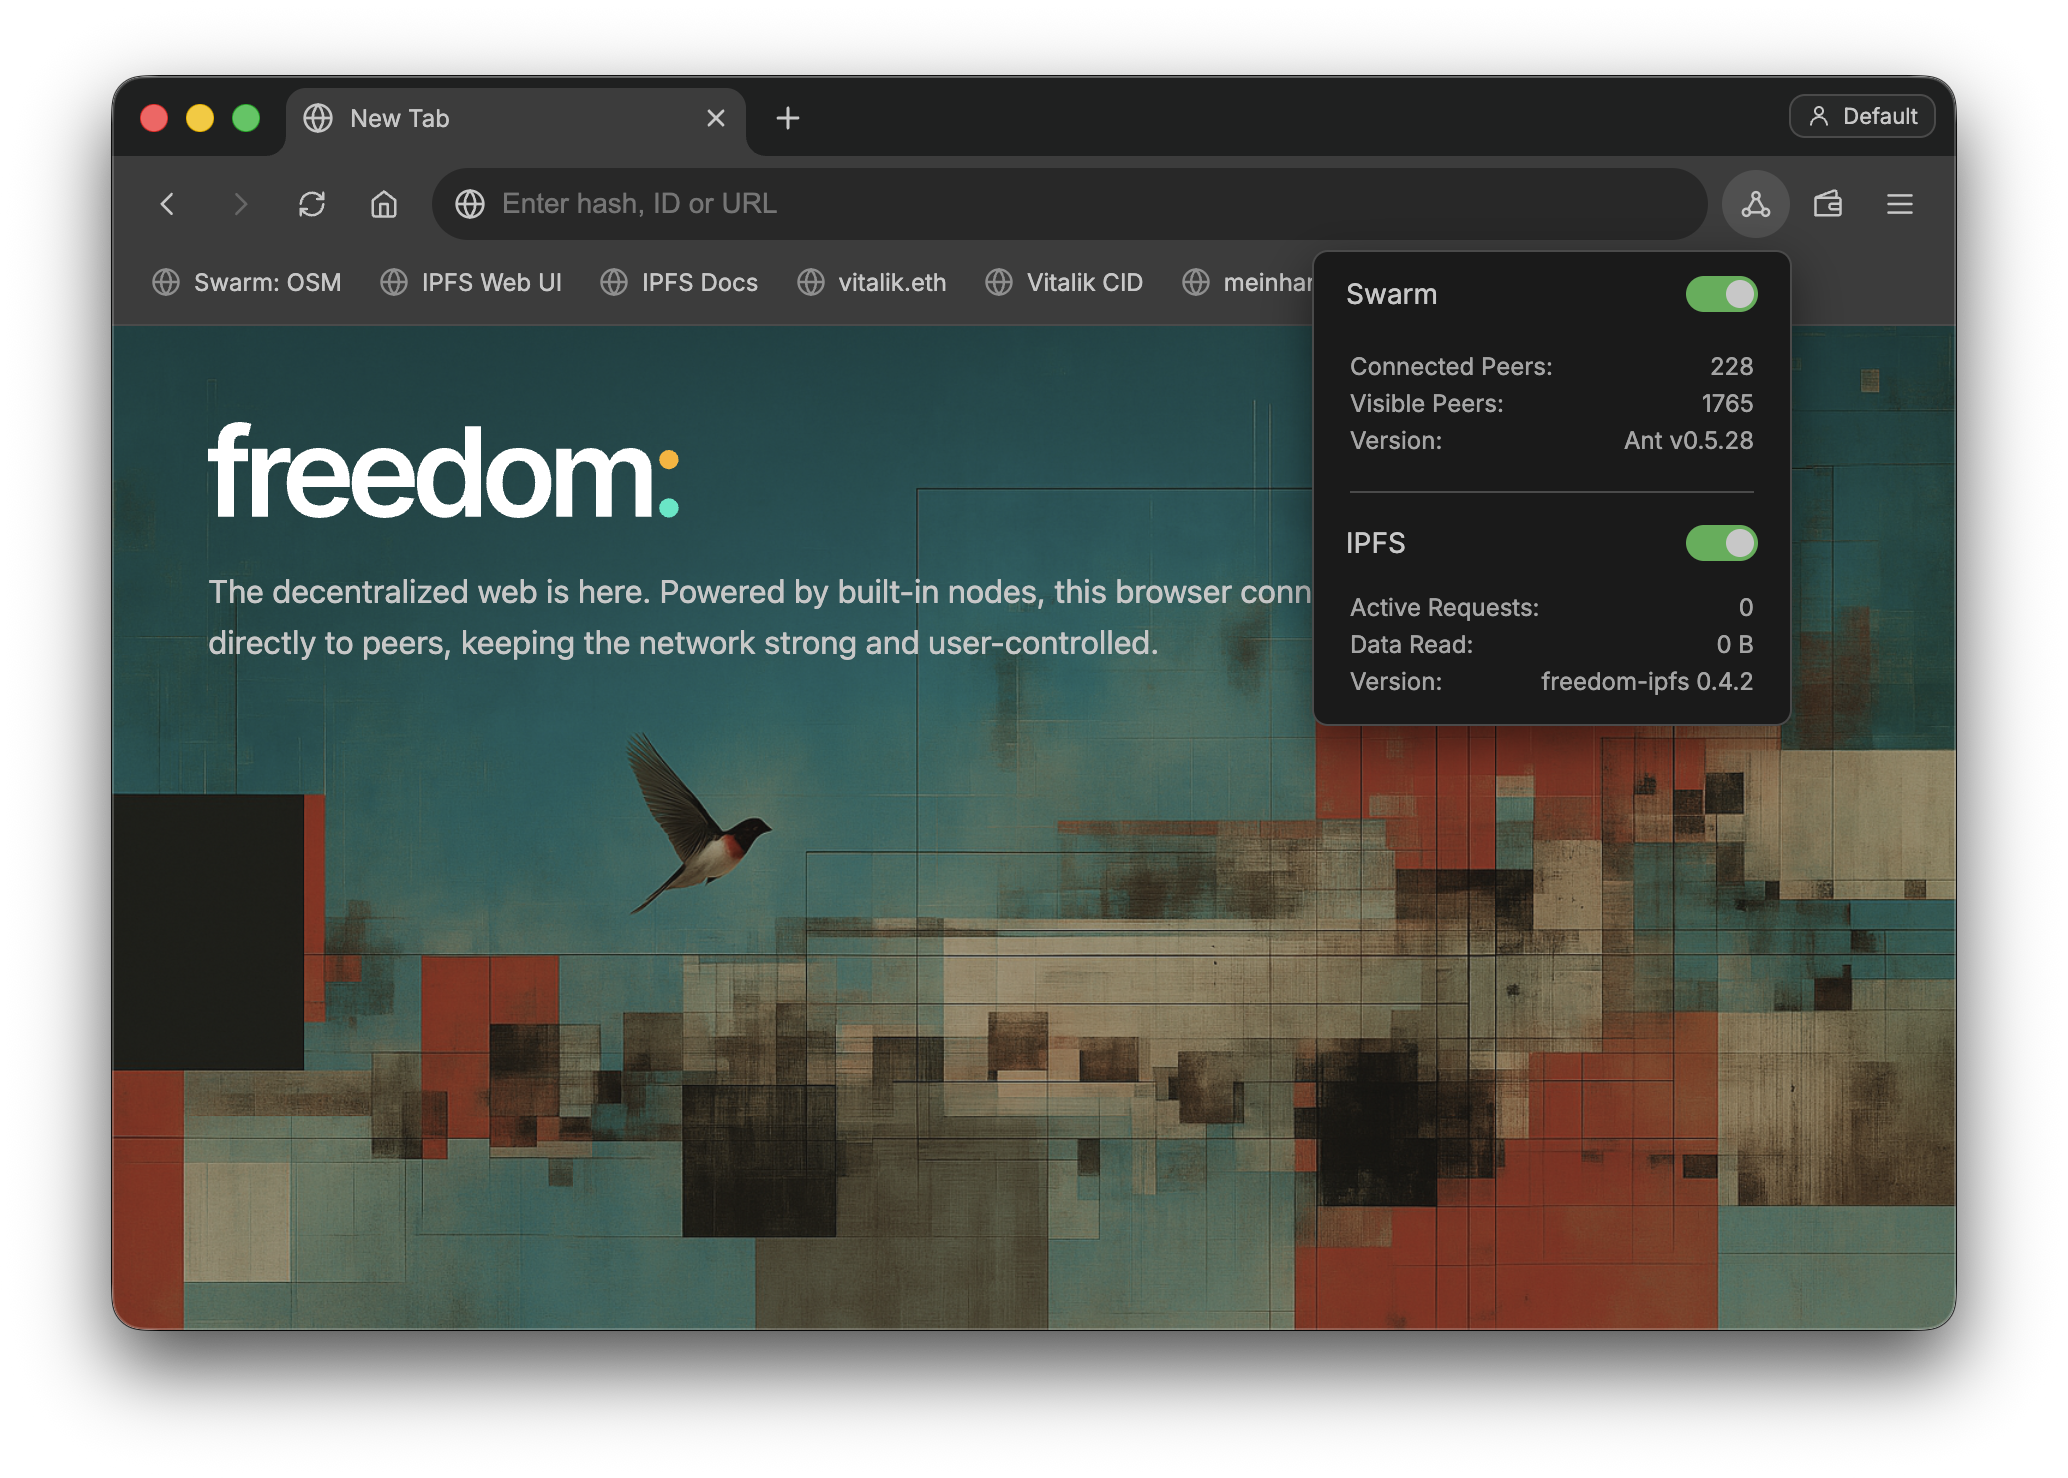
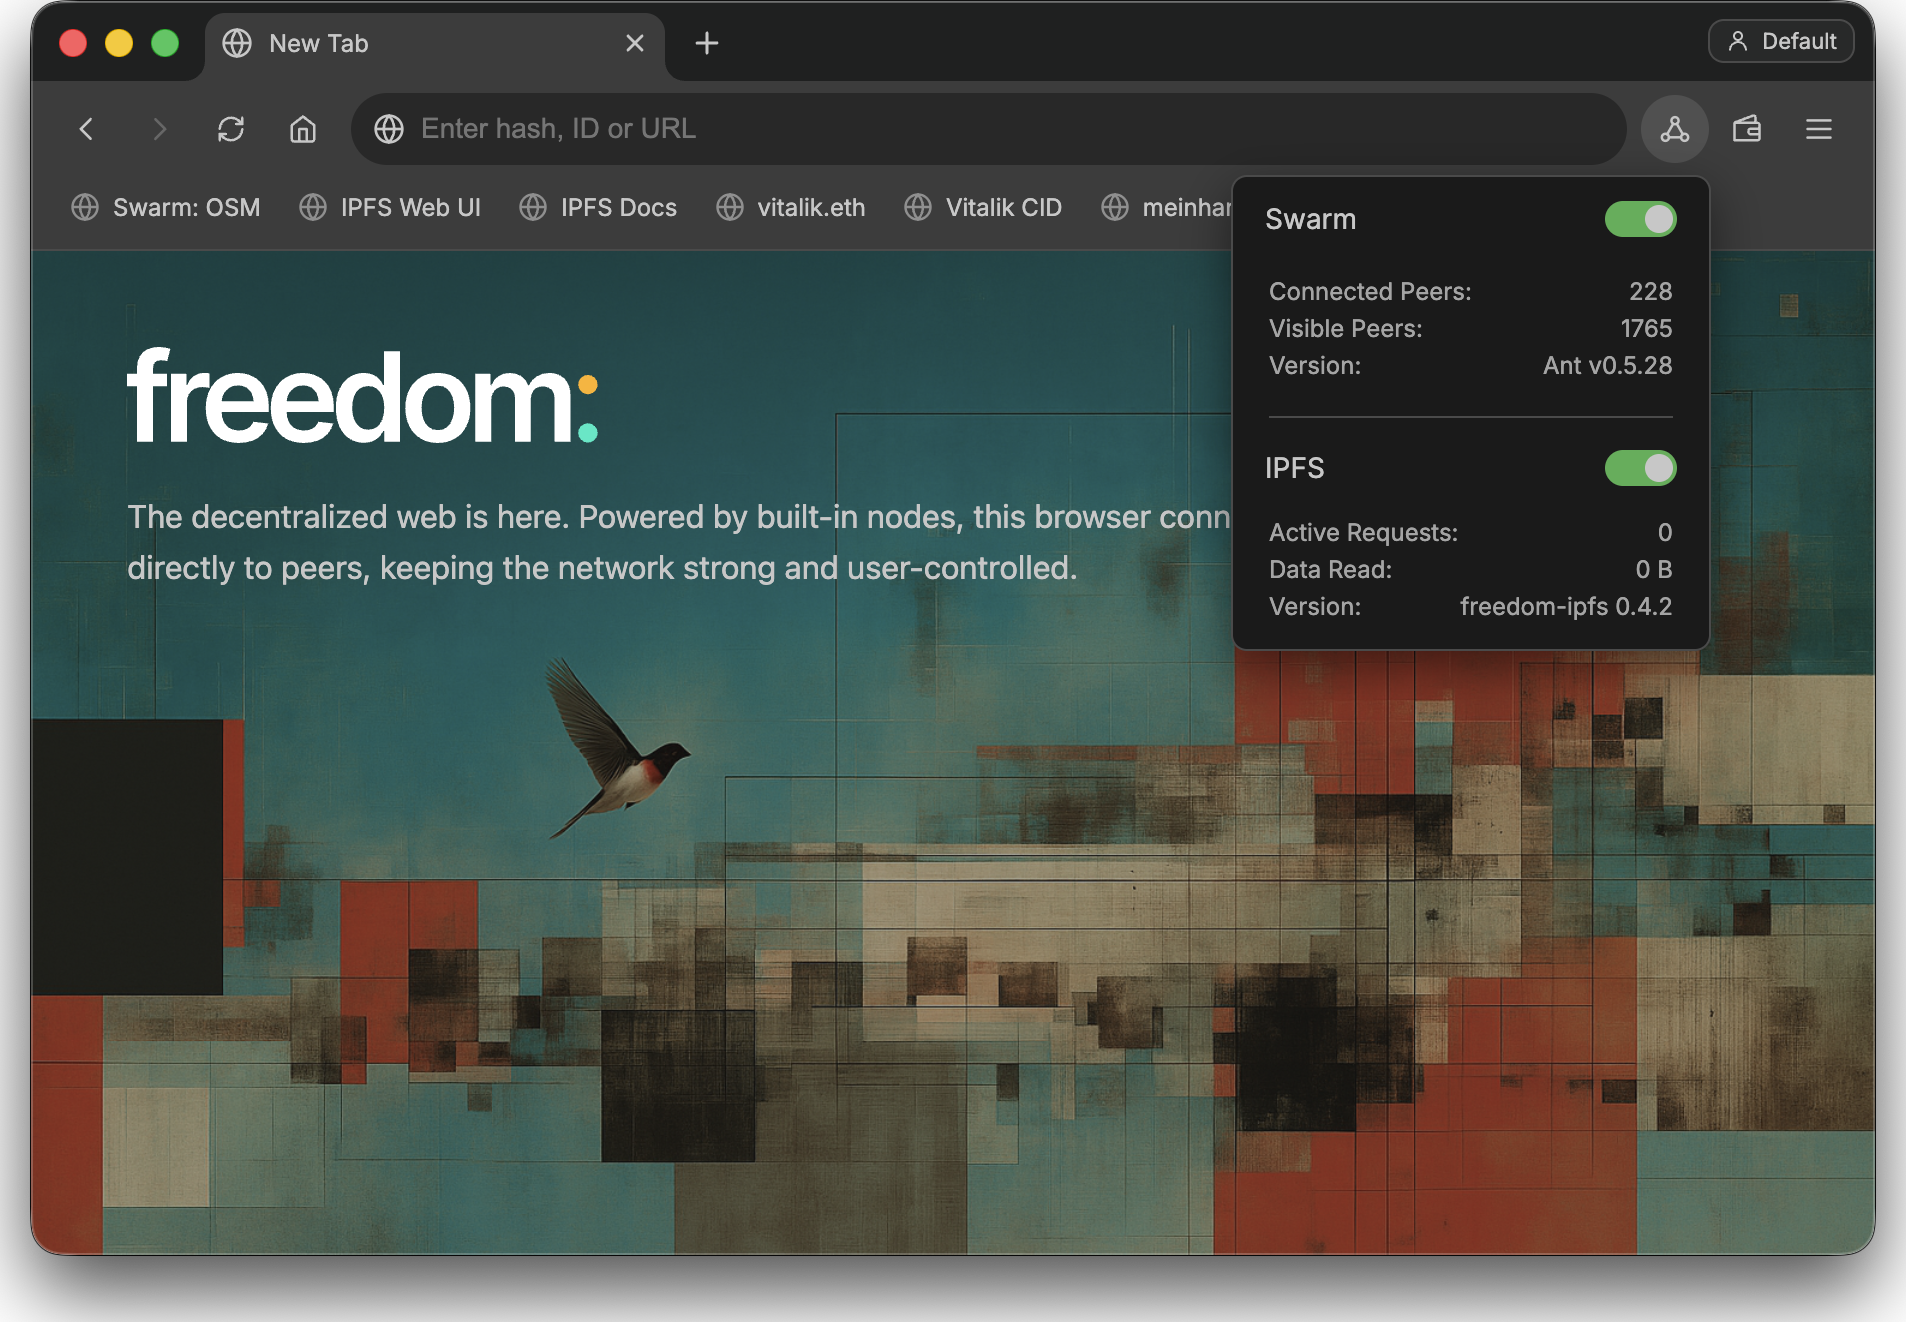
Add nodes-connected & navigator.freedom preview slides; drop version pins
- New "Swarm & IPFS connected" slide with trimmed screenshot
- New "what's next" navigator.freedom sneak-preview slide
- Move title/intro to slide 2 (after the logo cover)
- Update postage (xBZZ/xDAI), mini-app (already-cloned path), and wrap-up
- Remove all 0.7.4 version references across slides, README, and examples

diff --git a/slides/index.html b/slides/index.html
@@ -166,6 +166,15 @@
     <p style="margin-top:3vh;font-size:clamp(1.1rem,2.6vw,1.7rem);color:#c9cfc3">Writing the Decentralized Web</p>
   </section>
 
+  <!-- 1 title -->
+  <section class="slide">
+    <p class="eyebrow">DappCon · Infrastructure Layer</p>
+    <h2>Writing the dweb<span class="o">.</span><br>Not just reading it.</h2>
+    <p>Using wallet and storage APIs in Freedom Browser — publishing, signing, and resolving content
+    on peer-to-peer storage networks.</p>
+    <p style="margin-top:2vh;font-family:var(--mono);font-size:clamp(.8rem,1.6vw,1rem);color:#6e7568">Meinhard Benn · meinhard.eth</p>
+  </section>
+
   <!-- 1 pre-session -->
   <section class="slide">
     <p class="eyebrow">Before we start</p>
@@ -183,20 +192,11 @@
   </section>
 
   <!-- 2 nodes connected -->
-  <section class="slide" style="align-items:center;text-align:center">
+  <section class="slide">
     <p class="eyebrow">What ready looks like</p>
     <h2 style="margin-bottom:2vh">Swarm &amp; IPFS <span class="g">connected</span></h2>
     <img src="./images/freedom-screenshot.png" alt="Freedom Browser new tab with Swarm and IPFS nodes connected"
-      style="flex:0 0 auto;width:clamp(420px,62vw,880px);max-height:62vh;height:auto;object-fit:contain">
-  </section>
-
-  <!-- 1 title -->
-  <section class="slide">
-    <p class="eyebrow">DappCon · Infrastructure Layer</p>
-    <h2>Writing the dweb<span class="o">.</span><br>Not just reading it.</h2>
-    <p>Using wallet and storage APIs in Freedom Browser — publishing, signing, and resolving content
-    on peer-to-peer storage networks.</p>
-    <p style="margin-top:2vh;font-family:var(--mono);font-size:clamp(.8rem,1.6vw,1rem);color:#6e7568">Meinhard Benn · meinhard.eth</p>
+      style="flex:0 0 auto;width:clamp(420px,62vw,880px);max-height:60vh;height:auto;object-fit:contain;border-radius:10px;box-shadow:0 24px 60px rgba(0,0,0,.45)">
   </section>
 
   <!-- 2 objective -->
@@ -251,7 +251,7 @@
     <ul>
       <li>Swarm publishing goes through your own Swarm node — set up at <span style="font-family:var(--mono)">freedom://publish</span></li>
       <li>A postage batch (paid in xBZZ) stamps what you upload — buy / extend it in the Stamp manager</li>
-      <li>Today: nodes are pre-funded with a stamp — or I publish live and share the hash. <b>Reading and signing need none of this.</b></li>
+      <li>Today: I send you xBZZ (and xDAI for gas if needed) to buy your own stamp — or I publish live and share the hash. <b>Reading and signing need none of this.</b></li>
       <li>In production: your app or your user funds the batch</li>
     </ul>
   </section>
@@ -291,7 +291,7 @@ console.log(bzzUrl);  <span class="cm">// → your first bzz:// reference</span>
       <span class="hl">Swarm</span>&nbsp;&nbsp;postage · chunks · feeds &nbsp;<span class="ok">— write today</span><br>
       <span class="hl">IPFS</span>&nbsp;&nbsp;&nbsp;CIDs · pinning · broad ecosystem &nbsp;— read
     </div>
-    <p style="margin-top:2vh">In 0.7.4 the publish API is Swarm-only; IPFS is the read side. Same browser, both networks.</p>
+    <p style="margin-top:2vh">Today the publish API is Swarm-only; IPFS is the read side. Same browser, both networks.</p>
   </section>
 
   <!-- 9 sign -->
@@ -325,8 +325,8 @@ console.log(bzzUrl);  <span class="cm">// → your first bzz:// reference</span>
   <!-- 11 mini app -->
   <section class="slide">
     <p class="eyebrow">Mini app</p>
-    <h2>Clone. Run. <span class="o">Modify.</span></h2>
-    <pre><code>git clone &lt;repo&gt;   <span class="cm">// complete &amp; working, no build step</span></code></pre>
+    <h2>Open. Run. <span class="o">Modify.</span></h2>
+    <pre><code>examples/mini-app/index.html   <span class="cm">// already cloned — complete &amp; working, no build step</span></code></pre>
     <ul>
       <li>Publish a post: <span style="font-family:var(--mono)">window.ethereum</span> → <span style="font-family:var(--mono)">window.swarm.publishData</span> → <span style="font-family:var(--mono)">personal_sign</span></li>
       <li>Approve the per-origin prompts the first time</li>
@@ -349,12 +349,31 @@ console.log(bzzUrl);  <span class="cm">// → your first bzz:// reference</span>
     write to peer-to-peer infrastructure.</p>
   </section>
 
+  <!-- 12b sneak preview -->
+  <section class="slide">
+    <p class="eyebrow">Sneak preview · what's next</p>
+    <h2>Next: one namespace — <span class="o">navigator.freedom</span></h2>
+    <div class="big-mono" style="margin-top:1vh">
+      navigator.freedom = {<br>
+      &nbsp;&nbsp;storage,&nbsp;&nbsp;<span class="cm">// publish · files · chunks · upload status</span>&nbsp;<span class="ok">✓ today</span><br>
+      &nbsp;&nbsp;feeds,&nbsp;&nbsp;&nbsp;&nbsp;<span class="cm">// create · update · read · single-owner chunks</span>&nbsp;<span class="ok">✓ today</span><br>
+      &nbsp;&nbsp;identity,&nbsp;<span class="cm">// publisher keys · getSigningIdentity · sign</span>&nbsp;<span class="ok">✓ today</span><br>
+      &nbsp;&nbsp;names,&nbsp;&nbsp;&nbsp;&nbsp;<span class="cm">// resolve + set ENS contenthash</span>&nbsp;<span class="hl">soon</span><br>
+      &nbsp;&nbsp;ipfs,&nbsp;&nbsp;&nbsp;&nbsp;&nbsp;<span class="cm">// native node — write, not just read</span>&nbsp;<span class="hl">soon</span><br>
+      &nbsp;&nbsp;pay,&nbsp;&nbsp;&nbsp;&nbsp;&nbsp;&nbsp;<span class="cm">// native x402, pay-as-you-browse</span>&nbsp;<span class="hl">soon</span><br>
+      }
+    </div>
+    <p style="margin-top:2vh">Today's <span style="font-family:var(--mono)">window.ethereum</span> + <span style="font-family:var(--mono)">window.swarm</span> fold into a single
+    <span style="font-family:var(--mono)">navigator.freedom</span> surface — same mental model, more verbs.</p>
+  </section>
+
   <!-- 13 wrap -->
   <section class="slide">
     <p class="eyebrow">Wrap-up</p>
     <h2>From <span class="o">linking to</span> storage,<br>to <span class="g">writing to</span> it</h2>
     <ul>
-      <li>Install Freedom Browser 0.7.4 · try the demo app · publish your own page tonight</li>
+      <li>Run Freedom Browser from source · try the mini app · publish your own page tonight</li>
+      <li>Everything from today lives in <span style="font-family:var(--mono);color:#ffb27a">github.com/meinharrd/dappcon-2026</span></li>
       <li>Feedback on the <span style="font-family:var(--mono)">window.swarm</span> &amp; <span style="font-family:var(--mono)">window.ethereum</span> APIs is explicitly invited</li>
     </ul>
   </section>
@@ -362,7 +381,7 @@ console.log(bzzUrl);  <span class="cm">// → your first bzz:// reference</span>
   <div class="deck-ui">
     <button id="prev" hidden>← prev</button>
     <button id="next" hidden>next →</button>
-    <span class="count"><span id="cur">1</span> / <span id="total">14</span></span>
+    <span class="count"><span id="cur">1</span> / <span id="total">17</span></span>
   </div>
 </div>
 

diff --git a/examples/feed-update.js b/examples/feed-update.js
@@ -5,7 +5,7 @@
 
 (async () => {
   if (!window.swarm) {
-    console.error("window.swarm is missing — open this in Freedom Browser 0.7.4.");
+    console.error("window.swarm is missing — open this in Freedom Browser.");
     return;
   }
 

diff --git a/examples/hands-on-1-publish.js b/examples/hands-on-1-publish.js
@@ -6,7 +6,7 @@
 
 (async () => {
   if (!window.swarm) {
-    console.error("window.swarm is missing — open this in Freedom Browser 0.7.4.");
+    console.error("window.swarm is missing — open this in Freedom Browser.");
     return;
   }
 

diff --git a/examples/hands-on-2-sign.js b/examples/hands-on-2-sign.js
@@ -5,7 +5,7 @@
 
 (async () => {
   if (!window.ethereum) {
-    console.error("window.ethereum is missing — open this in Freedom Browser 0.7.4.");
+    console.error("window.ethereum is missing — open this in Freedom Browser.");
     return;
   }
 

diff --git a/examples/mini-app/index.html b/examples/mini-app/index.html
@@ -86,7 +86,7 @@
       setStatus("Freedom APIs available — wallet + Swarm ready.", "ok");
     } else {
       const missing = (d.wallet ? "" : "window.ethereum ") + (d.swarm ? "" : "window.swarm");
-      setStatus("Missing APIs (" + missing.trim() + ") — open this in Freedom Browser 0.7.4.", "err");
+      setStatus("Missing APIs (" + missing.trim() + ") — open this in Freedom Browser.", "err");
       $("connect").disabled = true;
     }
   })();

diff --git a/examples/x402/server.js b/examples/x402/server.js
@@ -1,6 +1,6 @@
 // x402 demo server — a single paywalled endpoint.
 //
-// Freedom Browser 0.7.4 pays for x402 resources transparently: when a request
+// Freedom Browser pays for x402 resources transparently: when a request
 // gets a 402 with a PAYMENT-REQUIRED header, the browser shows an approval card,
 // signs a (gasless) stablecoin authorization, and retries — no client SDK needed.
 //

diff --git a/examples/README.md b/examples/README.md
@@ -1,6 +1,6 @@
 # Workshop examples — Writing the dweb
 
-Runnable code for the DappCon "Writing the dweb" workshop, targeting **Freedom Browser 0.7.4**.
+Runnable code for the DappCon "Writing the dweb" workshop, targeting the current **Freedom Browser** release.
 
 Everything here uses the two providers Freedom injects into every page:
 
@@ -12,7 +12,7 @@ Everything here uses the two providers Freedom injects into every page:
 
 ## Prerequisites
 
-1. Clone and run Freedom Browser 0.7.4 from source:
+1. Clone and run Freedom Browser from source:
    ```bash
    git clone https://github.com/solardev-xyz/freedom-browser
    cd freedom-browser
@@ -45,7 +45,7 @@ connect wallet            window.ethereum
   → open / resolve         bzz://… · ENS
 ```
 
-## API quick reference (0.7.4)
+## API quick reference
 
 ```js
 // Wallet
@@ -64,7 +64,7 @@ await window.swarm.getSigningIdentity();
 
 ## x402 — pay as you browse
 
-Freedom 0.7.4 settles x402 payments **transparently**: a paywalled request returns
+Freedom settles x402 payments **transparently**: a paywalled request returns
 `402` with a `PAYMENT-REQUIRED` header, the browser shows an approval card, signs a
 gasless stablecoin authorization, attaches `PAYMENT-SIGNATURE`, and retries. The page
 just calls `fetch()` — **no x402 client SDK**. Payments are visible at `freedom://payments`.

diff --git a/README.md b/README.md
@@ -1,6 +1,6 @@
 # Writing the Decentralized Web — DappCon 2026 Workshop
 
-Hands-on workshop on **writing** to the decentralized web with [Freedom Browser](https://freedombrowser.eth.limo) 0.7.4 — publishing content to Swarm, reading IPFS, signing with the built-in wallet, and resolving via ENS, all through native browser APIs (`window.ethereum` + `window.swarm`).
+Hands-on workshop on **writing** to the decentralized web with [Freedom Browser](https://freedombrowser.eth.limo) — publishing content to Swarm, reading IPFS, signing with the built-in wallet, and resolving via ENS, all through native browser APIs (`window.ethereum` + `window.swarm`).
 
 ## Contents
 